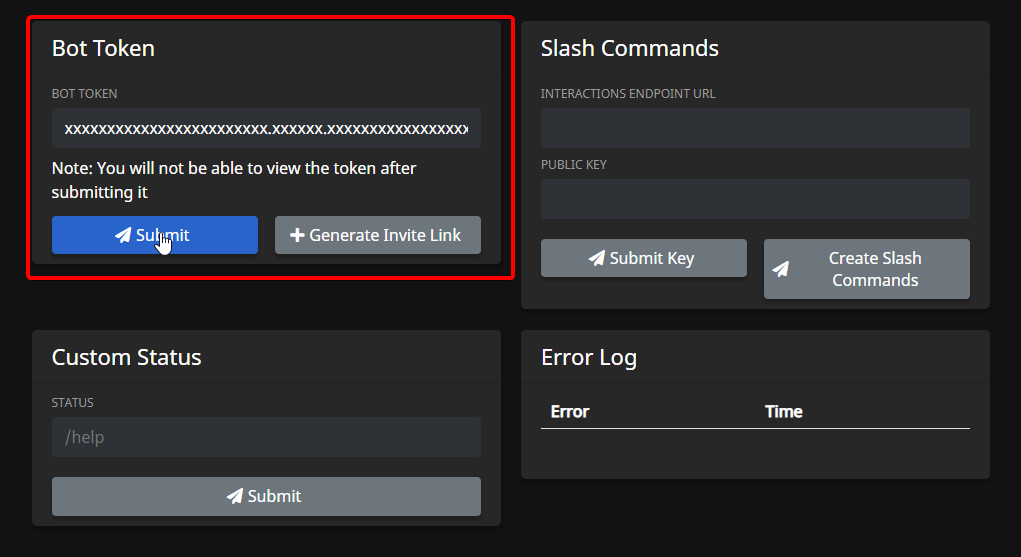
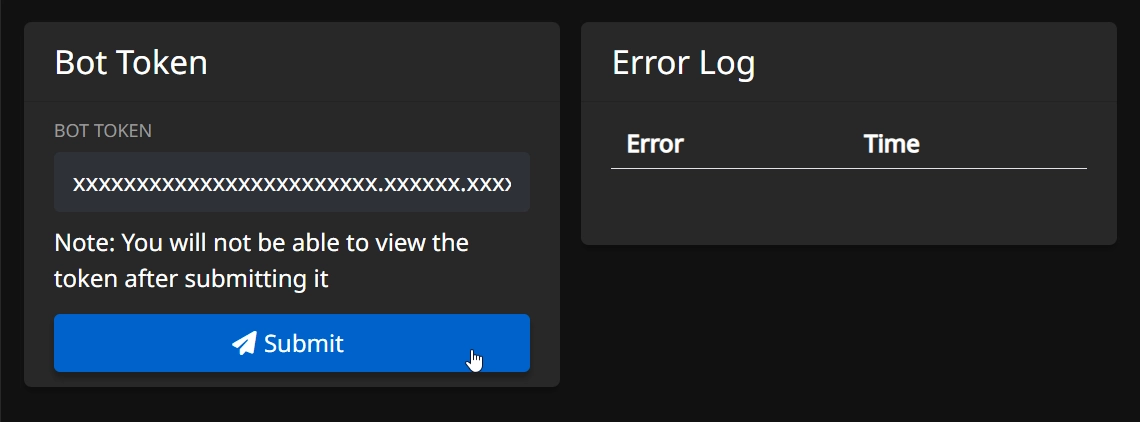
Update docs for new whitelabel process

diff --git a/src/premium/whitelabel-setup-guide.md b/src/premium/whitelabel-setup-guide.md
@@ -1,19 +1,18 @@
 # WHITELABEL SETUP GUIDE
 ***
-***
 
 Thanks for purchasing whitelabel and supporting us!
 
-Please follow this guide **very carefully**. If you skip a single step, nothing will work - you've been warned. The process should not take more than 10 minutes, and will only need to be done once.
+Please follow this guide **very carefully**. If you skip a single step, the process will not work. The setup should not take more than 10 minutes, and will only need to be done once.
 
-## (Step 1 of 8) Link Patreon Account 
+## (Step 1 of 6) Link Patreon Account 
 ***
 
 If you haven't done so already, you'll need to link your Patreon and Discord accounts on [this page](https://www.patreon.com/settings/apps).
 
 Patreon has a longer guide on how to do this [here](https://support.patreon.com/hc/en-us/articles/212052266-Get-my-Discord-role).
 
-## (Step 2 of 8) Create A Bot
+## (Step 2 of 6) Create A Bot
 ***
 
 Next, we'll need to create your custom bot that Tickets will run under.
@@ -28,7 +27,7 @@ From here, you can change your bot's avatar:
 
 ![General Information](/img/whitelabel/general_information.webp)
 
-## (Step 3 of 8) Tweak Settings
+## (Step 3 of 6) Tweak Settings
 ***
 
 Next, we need to edit some very important settings.
@@ -37,27 +36,10 @@ Switch to the `Bot` tab in the sidebar, press `Add Bot` and confirm:
 
 ![Create Bot](/img/whitelabel/create_bot.webp)
 
-You'll then be presented with new settings. Apply the following:
-- Set `Public Bot` to **off**
-- Set `Requires OAuth2 Code Grant` to **off** (default)
-- Set `Presence Intent` to **off** (default)
-- **HIGHLY IMPORTANT, DO NOT SKIP:** Set `Server Members Intent` to **on**
-- **HIGHLY IMPORTANT, DO NOT SKIP:** Set `Message Content Intent` to **on**
-
-You can ignore the `Bot Permissions` section, it is simply a calculator and does not affect anything.
-
-Please ensure that you have enabled `Server Members Intent` and `Message Content Intent`: without them, **your bot will not start**.
-
-Finally, ensure to save your changes.
-
-Your settings should look as follows:
-
-![Bot Settings](/img/whitelabel/bot_settings.webp)
-
-## (Step 4 of 8) Starting The Bot
+## (Step 4 of 6) Starting The Bot
 ***
 
-Next, head over to the [Tickets dashboard]( https://dashboard.ticketsbot.net/whitelabel) and select the `Whitelabel` tab on the sidebar.
+Next, head over to the [Tickets dashboard](https://dashboard.ticketsbot.net/whitelabel) and select the `Whitelabel` tab on the sidebar.
 
 First, we have to submit the bot's token. This is like a password to the bot. **Never send this token to anyone, even in our support server.**
 
@@ -65,7 +47,7 @@ Head back over to the bot tab on the Discord developer portal and copy the token
 
 ![Copy Token](/img/whitelabel/copy_token.webp)
 
-Then in the `Whitelabel` section of the Tickets dashboard, paste it into the `Bot Token` field and press `Submit`:
+Then in the `Whitelabel` tab of the Tickets dashboard ([link](https://dashboard.ticketsbot.net/whitelabel)), paste the token into the `Bot Token` field and press `Submit`:
 
 ![Submit Token](/img/whitelabel/submit_token.webp)
 
@@ -73,61 +55,27 @@ You will then be presented with a message saying that the bot is now online.
 
 If you receive an error, make sure that you copied the token fully (not the client secret.) Additionally, refresh the page and check the `Error Log` table for any errors.
 
-## (Step 5 of 8) Inviting The Bot To Your Server
+## (Step 5 of 6) Inviting The Bot To Your Server
 ***
 
 Before you can invite the bot to your server, you must kick the main `Tickets#6981` bot from your server. It is **extremely** important that you do this **before** inviting your custom bot to your server. If you do not do this, you risk data loss.
 
 ![Kick Bot](/img/whitelabel/kick_bot.webp)
 
-You may have noticed that the `Generate Invite Link` button is no longer disabled after submitting the token.
+To invite your whitelabel bot to your server, click the `Generate Invite Link` button under the Manage Bot section.
 
 Upon clicking the button, you will be taken to the normal bot invite page - select your server and authorise. It is important that you grant the bot all the permissions that it asks for.
 
 ![Invite](/img/whitelabel/invite.webp)
 
-> ### `We are not finished yet. Although the bot may be in your server, no commands or buttons will work until you complete ALL steps of the guide.`
-
-## (Step 6 of 8) Configuring Interactions
-***
-
-### Do not skip this step. Your bot will not work if you skip it. 
-
-It is very important that you follow these instructions in the exact order they are written.
- 
-Head back to the `General Information` tab of the Discord developer portal. Locate the `Public Key` field, and press copy:
-
-![Copy Public Key](/img/whitelabel/public_key_copy.webp)
-
-Head back to the whitelabel tab on our dashboard. Under the `Slash Commands` heading, there is a `Public Key` field. Paste the public key into that field, and press `Submit Key`.
-
-![Paste Public Key](/img/whitelabel/public_key_paste.webp)
-
-Next, highlight the text in the `Interactions Endpoint URL` field, just above the `Public Key` field. Copy this link and head back over to the Discord developer portal.
-
-![Copy Interaction URL](/img/whitelabel/interaction_url_copy.webp)
-
-Paste the URL into the corresponding `Interactions Endpoint URL` field and press save changes.
-
-![Paste Interaction URL](/img/whitelabel/interaction_url_paste.webp)
-
-If you are presented with the error `interactions_endpoint_url: The specified interactions endpoint URL could not be verified`, this means that you have either copied the interaction URL incorrectly, or not submitted the public key to our dashboard yet.
-
-## (Step 7 of 8) Creating Slash Commands
-***
-
-Simply head back to our dashboard and press the `Create Slash Commands` button. Note that they may take up to an hour to show in your server.
-
-![Create Commands](/img/whitelabel/create_commands.webp)
-
-## (Step 8 of 8) Activating Premium Perks
+## (Step 6 of 6) Activating Premium Perks
 ***
 
 ### The last mandatory step is to activate the premium perks that come with whitelabel for your server.
 
 Go to your discord server and run the command `/premium`. You must select the command when it displays to you after typing. Make sure to choose `patreon` since that is how you paid for the whitelabel bot. **Giveaway Key is not used here.**
 
-- *If `patreon` is not a selectable option, then your premium perks are already applied to the server.*
+- *If `Patreon` is not a selectable option, then your premium perks are already applied to the server.*
 
 ![Activate Premium Perks](/img/whitelabel/activate_premium.webp)
 
@@ -142,12 +90,12 @@ You can optionally change your custom bot's status. Simply enter the new status 
 
 ![Custom Status](/img/whitelabel/custom_status.webp)
 
-## Optional: Privacy Policy & ToS
+## Privacy Policy & ToS
 ***
 
 On the `General Information` tab of the Discord developer portal, you may have noticed `Terms Of Service URL` and `Privacy Policy URL` fields.
 
-You can enter our policies here to inform users of how their data may be used.
+You should enter our policies here to inform users of how their data may be used.
 
 **Terms Of Service:** https://ticketsbot.net/terms-of-service  
 **Privacy Policy:** https://ticketsbot.net/privacy
